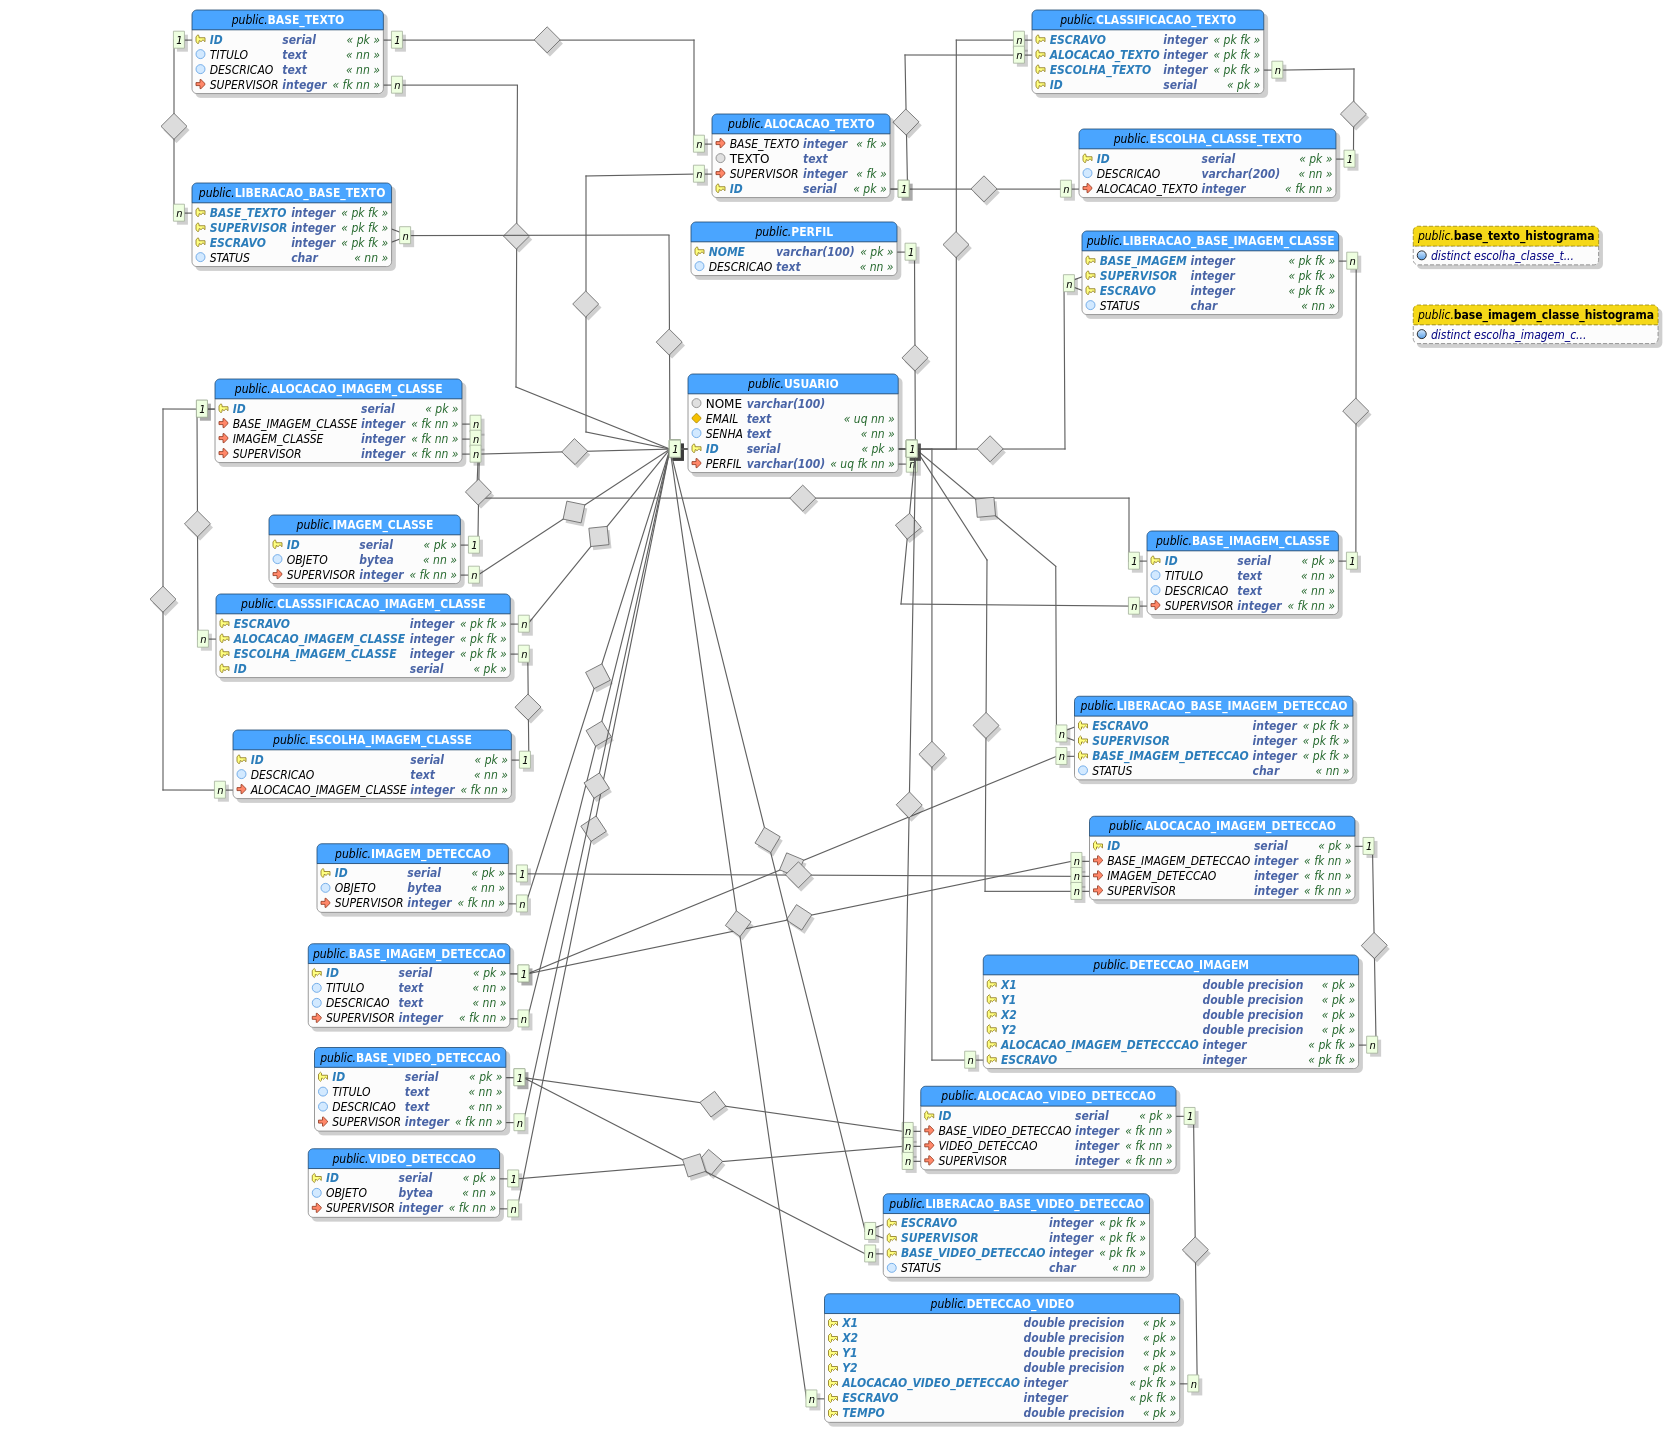
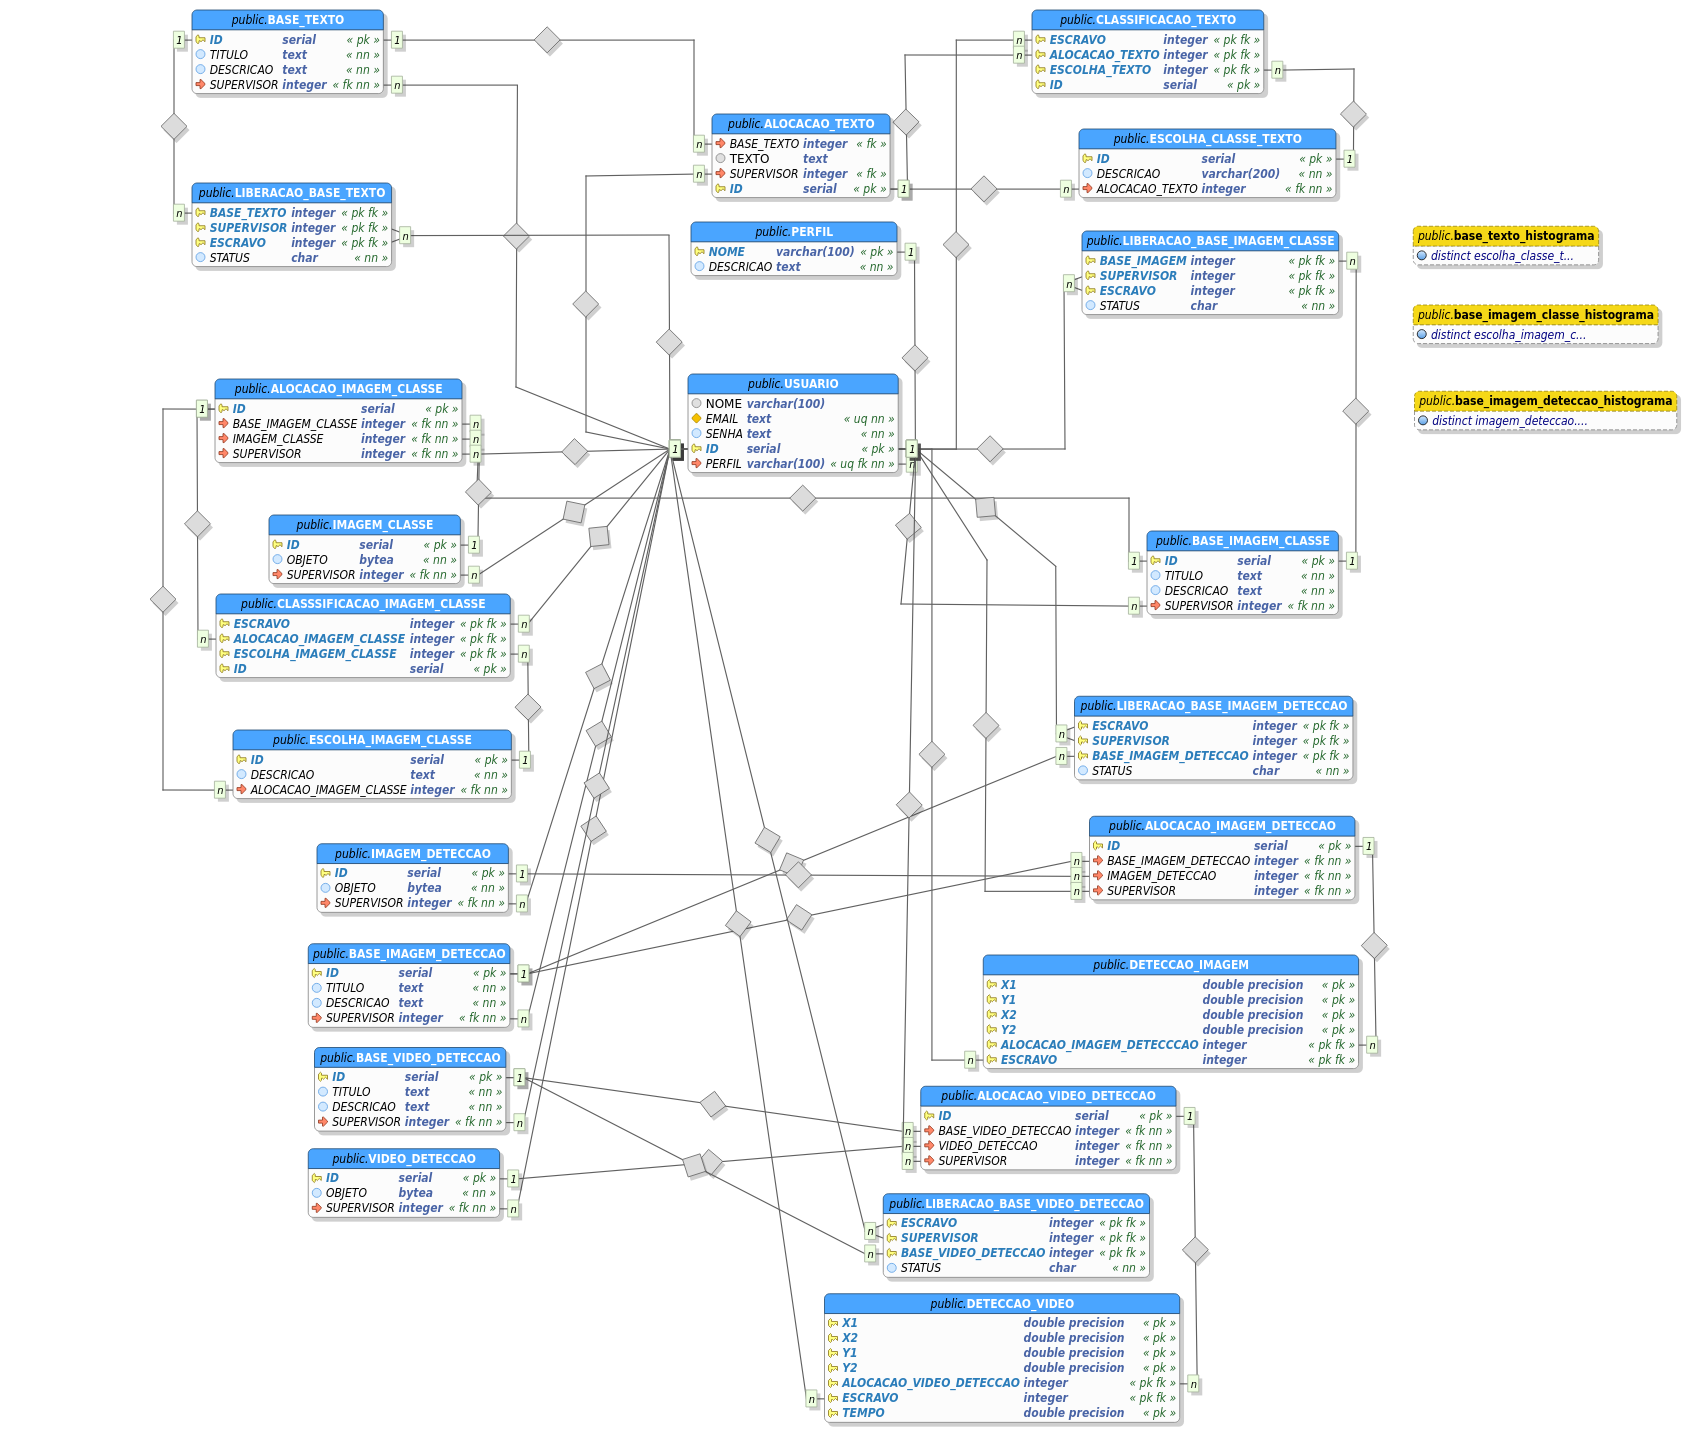
Criação de view para deteccção em imagens.

diff --git a/src/br/edu/ufrpe/uag/projetao/control/base/imagem/BaseGraficosFactory.java b/src/br/edu/ufrpe/uag/projetao/control/base/imagem/BaseGraficosFactory.java
@@ -4,11 +4,14 @@
 package br.edu.ufrpe.uag.projetao.control.base.imagem;
 
 import br.edu.ufrpe.uag.projetao.control.ControllerFactory;
+import br.edu.ufrpe.uag.projetao.control.DetachedCriteriaFactory;
 import br.edu.ufrpe.uag.projetao.control.QueryFactory;
 import br.edu.ufrpe.uag.projetao.model.BaseImagemClasse;
 import br.edu.ufrpe.uag.projetao.model.BaseImagemClasseHistograma;
+import br.edu.ufrpe.uag.projetao.model.BaseImagemDeteccao;
 import br.edu.ufrpe.uag.projetao.model.BaseTexto;
 import br.edu.ufrpe.uag.projetao.model.BaseTextoHistograma;
+import br.edu.ufrpe.uag.projetao.model.LiberacaoBaseImagemDeteccao;
 import javafx.collections.FXCollections;
 import javafx.collections.ObservableList;
 import javafx.scene.chart.BarChart;
@@ -22,80 +25,116 @@ import javafx.scene.chart.XYChart;
  */
 public class BaseGraficosFactory {
 
-    /**
-     * Cria um gráfico de barras resumidos por classe dado uma base de imagem
-     * 
-     * @param base
-     *            a ser plotada
-     * @return BarChart
-     */
-    public static BarChart getBaseImagemClasseHistograma(BaseImagemClasse base) {
+	/**
+	 * Cria um gráfico de barras resumidos por classe dado uma base de imagem
+	 * 
+	 * @param base
+	 *            a ser plotada
+	 * @return BarChart
+	 */
+	public static BarChart getBaseImagemClasseHistograma(BaseImagemClasse base) {
 
-	// criando os componentes do gráfico
-	CategoryAxis xAxis = new CategoryAxis();
-	NumberAxis yAxis = new NumberAxis();
-	BarChart<String, Number> histograma = new BarChart<>(xAxis, yAxis);
+		// criando os componentes do gráfico
+		CategoryAxis xAxis = new CategoryAxis();
+		NumberAxis yAxis = new NumberAxis();
+		BarChart<String, Number> histograma = new BarChart<>(xAxis, yAxis);
 
-	// buscando os dados no banco
-	ObservableList<BaseImagemClasseHistograma> listagem = FXCollections
-		.observableList(ControllerFactory.getBaseImagemClasseHistogramaController()
-			.getItems(QueryFactory.getBaseImagemClasseHistogramaPorBase(base)));
+		// buscando os dados no banco
+		ObservableList<BaseImagemClasseHistograma> listagem = FXCollections
+				.observableList(ControllerFactory.getBaseImagemClasseHistogramaController()
+						.getItems(QueryFactory.getBaseImagemClasseHistogramaPorBase(base)));
 
-	// criando uma série de dados
-	XYChart.Series<String, Number> series = new XYChart.Series<>();
-	series.setName(base.getTitulo());
+		// criando uma série de dados
+		XYChart.Series<String, Number> series = new XYChart.Series<>();
+		series.setName(base.getTitulo());
 
-	// preenchendo a série com as informações do banco
-	for (BaseImagemClasseHistograma bich : listagem) {
-	    series.getData().add(new XYChart.Data<>(bich.getClasse(), bich.getTotal()));
+		// preenchendo a série com as informações do banco
+		for (BaseImagemClasseHistograma bich : listagem) {
+			series.getData().add(new XYChart.Data<>(bich.getClasse(), bich.getTotal()));
+		}
+
+		// colocando os títulos
+		xAxis.setLabel("Classes");
+		yAxis.setLabel("Nº de Classificações");
+
+		// atribuindo a série ao gráfico
+		histograma.getData().add(series);
+
+		return histograma;
 	}
 
-	// colocando os títulos
-	xAxis.setLabel("Classes");
-	yAxis.setLabel("Nº de Classificações");
+	/**
+	 * Cria um gráfico de barras resumidos por classe dado uma base de texto
+	 * 
+	 * @param base
+	 *            a ser plotada
+	 * @return BarChart
+	 */
+	public static BarChart getBaseTextoHistograma(BaseTexto base) {
 
-	// atribuindo a série ao gráfico
-	histograma.getData().add(series);
+		// criando os componentes do gráfico
+		CategoryAxis xAxis = new CategoryAxis();
+		NumberAxis yAxis = new NumberAxis();
+		BarChart<String, Number> histograma = new BarChart<>(xAxis, yAxis);
 
-	return histograma;
-    }
-    
-    /**
-     * Cria um gráfico de barras resumidos por classe dado uma base de texto
-     * 
-     * @param base
-     *            a ser plotada
-     * @return BarChart
-     */
-    public static BarChart getBaseTextoHistograma(BaseTexto base) {
+		// buscando os dados no banco
+		ObservableList<BaseTextoHistograma> listagem = FXCollections.observableList(ControllerFactory
+				.getBaseTextoHistogramaController().getItems(QueryFactory.getBaseTextoHistogramaPorBase(base)));
 
-	// criando os componentes do gráfico
-	CategoryAxis xAxis = new CategoryAxis();
-	NumberAxis yAxis = new NumberAxis();
-	BarChart<String, Number> histograma = new BarChart<>(xAxis, yAxis);
+		// criando uma série de dados
+		XYChart.Series<String, Number> series = new XYChart.Series<>();
+		series.setName(base.getTitulo());
 
-	// buscando os dados no banco
-	ObservableList<BaseTextoHistograma> listagem = FXCollections
-		.observableList(ControllerFactory.getBaseTextoHistogramaController()
-			.getItems(QueryFactory.getBaseTextoHistogramaPorBase(base)));
+		// preenchendo a série com as informações do banco
+		for (BaseTextoHistograma bich : listagem) {
+			series.getData().add(new XYChart.Data<>(bich.getClasse(), bich.getTotal()));
+		}
 
-	// criando uma série de dados
-	XYChart.Series<String, Number> series = new XYChart.Series<>();
-	series.setName(base.getTitulo());
+		// colocando os títulos
+		xAxis.setLabel("Classes");
+		yAxis.setLabel("Nº de Classificações");
 
-	// preenchendo a série com as informações do banco
-	for (BaseTextoHistograma bich : listagem) {
-	    series.getData().add(new XYChart.Data<>(bich.getClasse(), bich.getTotal()));
+		// atribuindo a série ao gráfico
+		histograma.getData().add(series);
+
+		return histograma;
 	}
 
-	// colocando os títulos
-	xAxis.setLabel("Classes");
-	yAxis.setLabel("Nº de Classificações");
+	/**
+	 * 
+	 * @param base
+	 * @return
+	 */
+	public static BarChart getBaseImagemDeteccaoHistograma(BaseImagemDeteccao base) {
 
-	// atribuindo a série ao gráfico
-	histograma.getData().add(series);
+		// criando os componentes do gráfico
+		CategoryAxis xAxis = new CategoryAxis();
+		NumberAxis yAxis = new NumberAxis();
+		BarChart<String, Number> histograma = new BarChart<>(xAxis, yAxis);
+		
+		
+		
+		// buscando os dados no banco
+		ObservableList<BaseImagemDeteccao> listagem = FXCollections
+				.observableList(ControllerFactory.getBaseImagemDeteccaoController()
+						.getItemsFromCriteria(DetachedCriteriaFactory));
 
-	return histograma;
-    }
+		// criando uma série de dados
+		XYChart.Series<String, Number> series = new XYChart.Series<>();
+		series.setName(base.getTitulo());
 
+		// preenchendo a série com as informações do banco
+		for (BaseImagemClasseHistograma bich : listagem) {
+			series.getData().add(new XYChart.Data<>(bich.getClasse(), bich.getTotal()));
+		}
+
+		// colocando os títulos
+		xAxis.setLabel("Classes");
+		yAxis.setLabel("Nº de Classificações");
+
+		// atribuindo a série ao gráfico
+		histograma.getData().add(series);
+
+		return histograma;
+	}
 }
